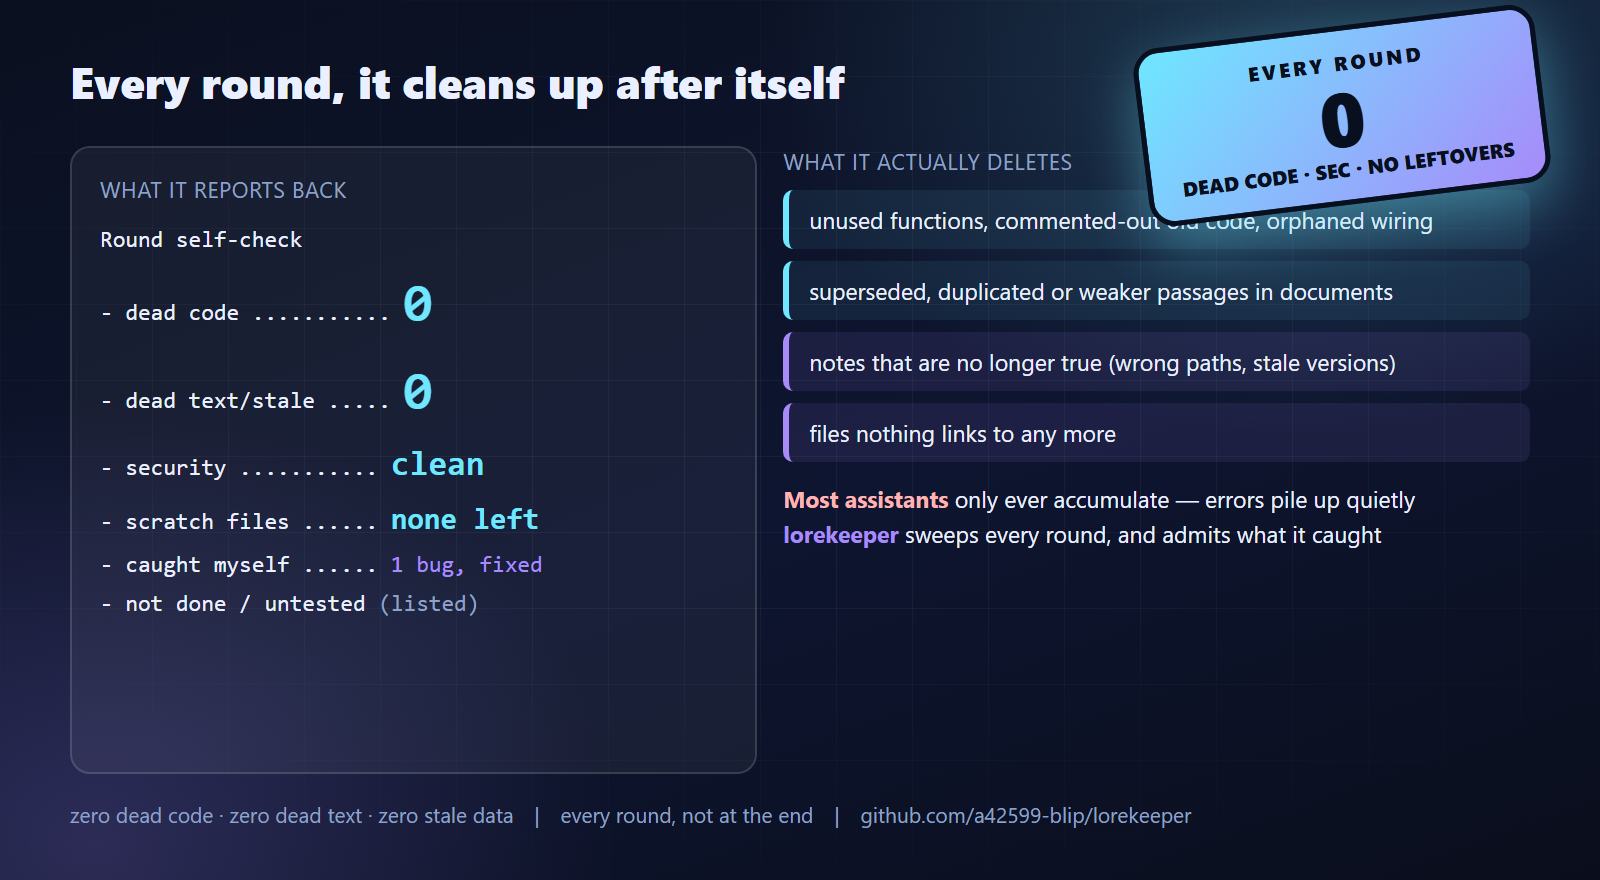
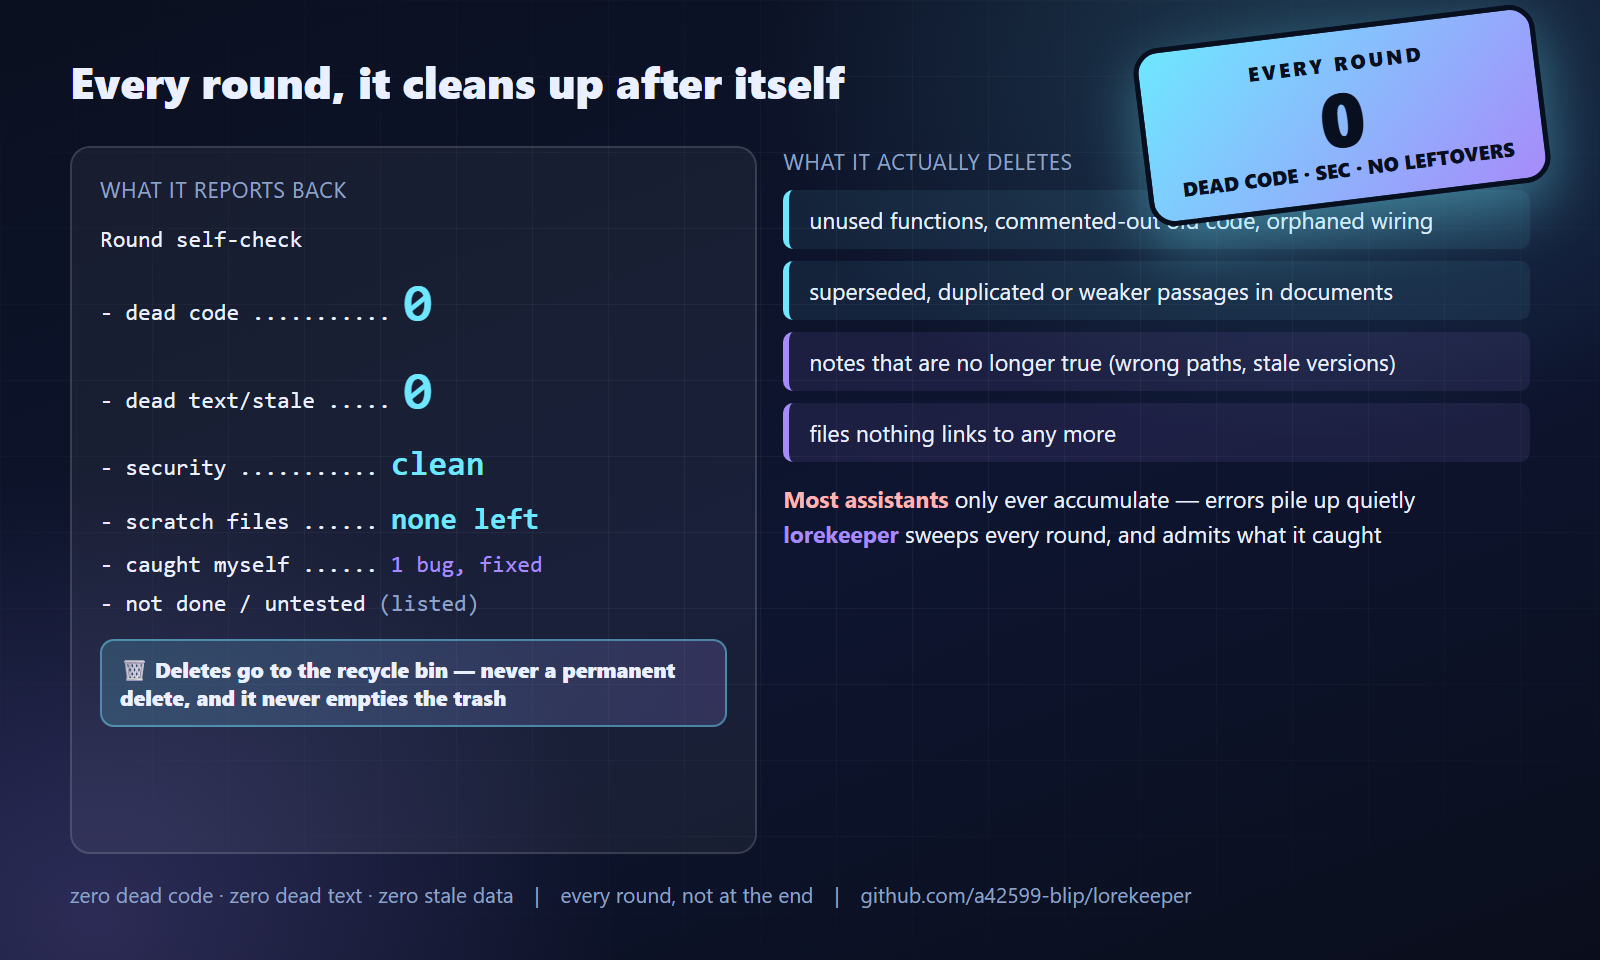
0.11.1: make the trash-only delete rule visible (README callout + diagrams)

diff --git a/README.md b/README.md
@@ -109,6 +109,16 @@ makes a mistake recoverable: the original and the copy both still exist until yo
 README (both languages), `SKILL.md`, `INSTALL.md`, `AGENTS.md`, `llms.txt`, the diagrams, the promo text
 and the video. A half-updated manual is treated as a bug, not as a leftover.
 
+### 🔒 Delete safely — this one is not negotiable
+
+**Anything that gets deleted goes to the recycle bin / trash. Never a permanent delete.** Not files,
+not folders, not temporary files — and the assistant **never empties the trash**: that is the owner's
+decision alone. If the trash tool is unavailable, it stops and asks instead of using a harder delete.
+Deleting is irreversible; your ability to recover from a mistake is not something to gamble with.
+
+This is rule **B5** below, and it is enforced the same way in everyday work: a copy is kept until the
+result is confirmed, and the scratch folder goes to the trash rather than being wiped.
+
 ### Every round ends with a self-check report
 
 Before reporting back, the assistant sweeps its own work and says so — the way you would report
@@ -416,6 +426,16 @@ Built by [@a42599-blip](https://github.com/a42599-blip).
 **所有東西要一起動。** 一個改動，要等到「描述它的那些東西」都一致了才算完成——
 中英兩份 README、`SKILL.md`、`INSTALL.md`、`AGENTS.md`、`llms.txt`、那些圖、宣傳文字和影片。
 **半套更新過的說明＝bug，不是「先放著」。**
+
+### 🔒 刪除一律只進資源回收筒——這條沒有商量餘地
+
+**凡是要刪掉的東西，一律丟進資源回收筒／垃圾桶。永不永久刪除。**
+檔案、資料夾、暫存檔都一樣——而且助理**永遠不准清空回收筒**：那是主人一個人的決定。
+如果回收筒工具不能用，它就**停下來問**，不會改用更硬的刪除方式。
+刪掉就回不來了；「你從錯誤裡救回來」的能力不是可以拿來賭的東西。
+
+這就是下面的規則 **B5**，而且在日常工作裡也一樣執行：在結果被確認之前會保留複本，
+過渡資料夾也是**丟回收筒**，不是直接抹掉。
 
 ### 每一輪收工都要自檢並回報
 

diff --git a/CHANGELOG.md b/CHANGELOG.md
@@ -3,6 +3,21 @@
 All notable changes to this project are recorded here.
 Format: date — change. Versions are loose (this is a document-driven skill).
 
+## [0.11.1] — 2026-09-30
+
+**The delete rule was written but not *visible*. Now it is.**
+
+- **A prominent callout in both README halves** — *“🔒 Delete safely — this one is not negotiable”* /
+  「🔒 刪除一律只進資源回收筒——這條沒有商量餘地」: everything deleted goes to the recycle bin / trash,
+  never a permanent delete, the assistant never empties the trash (that is the owner's decision), and if
+  the trash tool is unavailable it stops and asks rather than using a harder delete.
+- **The self-check diagram now shows it**, not just the text: a highlighted box under the report block —
+  「🗑 刪除一律只進資源回收筒，永不永久刪除，也不自行清空回收筒」 (English equivalent).
+- **The process diagram's scratch-folder band states it too**: deletes are trash-only, never permanent.
+- The rule was already in `SKILL.md` B5 (both languages), `AGENTS.md` and `llms.txt`; this release makes it
+  impossible to miss on the front page. Fixed at the same time: a duplicated subtitle in the Chinese
+  self-check diagram and a footer clipped by the new content.
+
 ## [0.11.0] — 2026-09-30
 
 **The scratch-folder workflow is now written into the manual itself — and everything that describes it moved together.**
